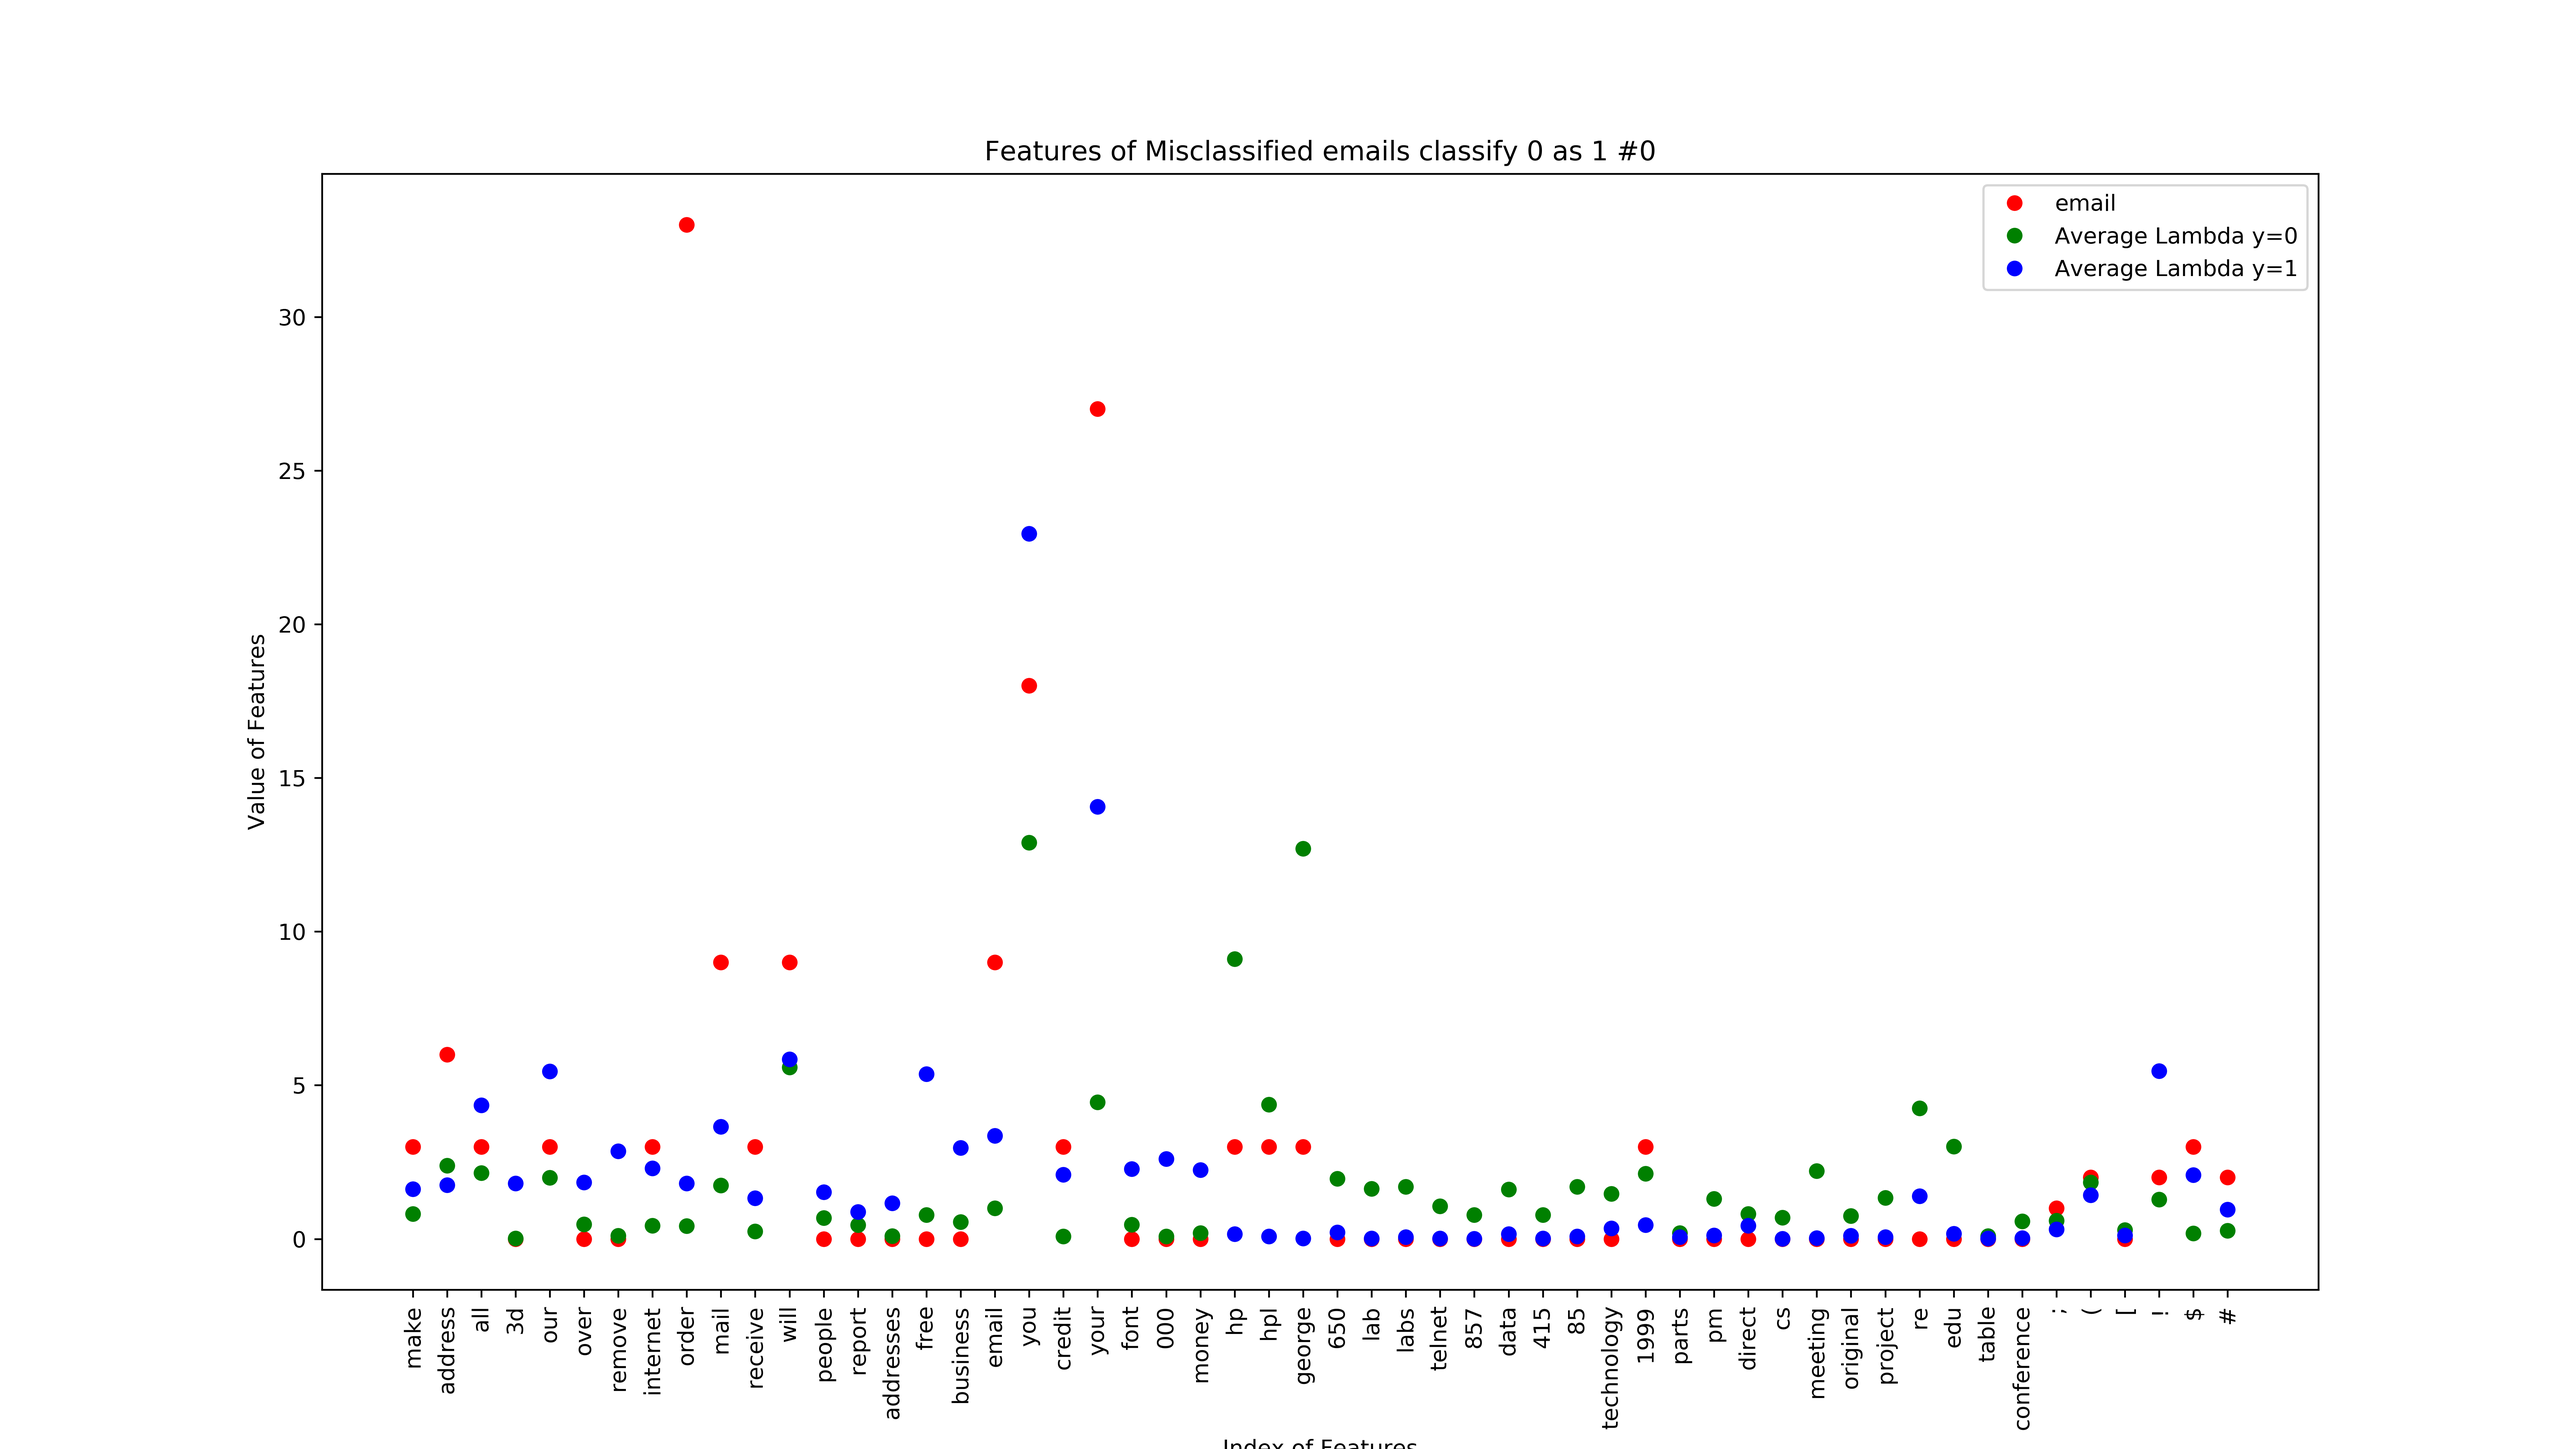
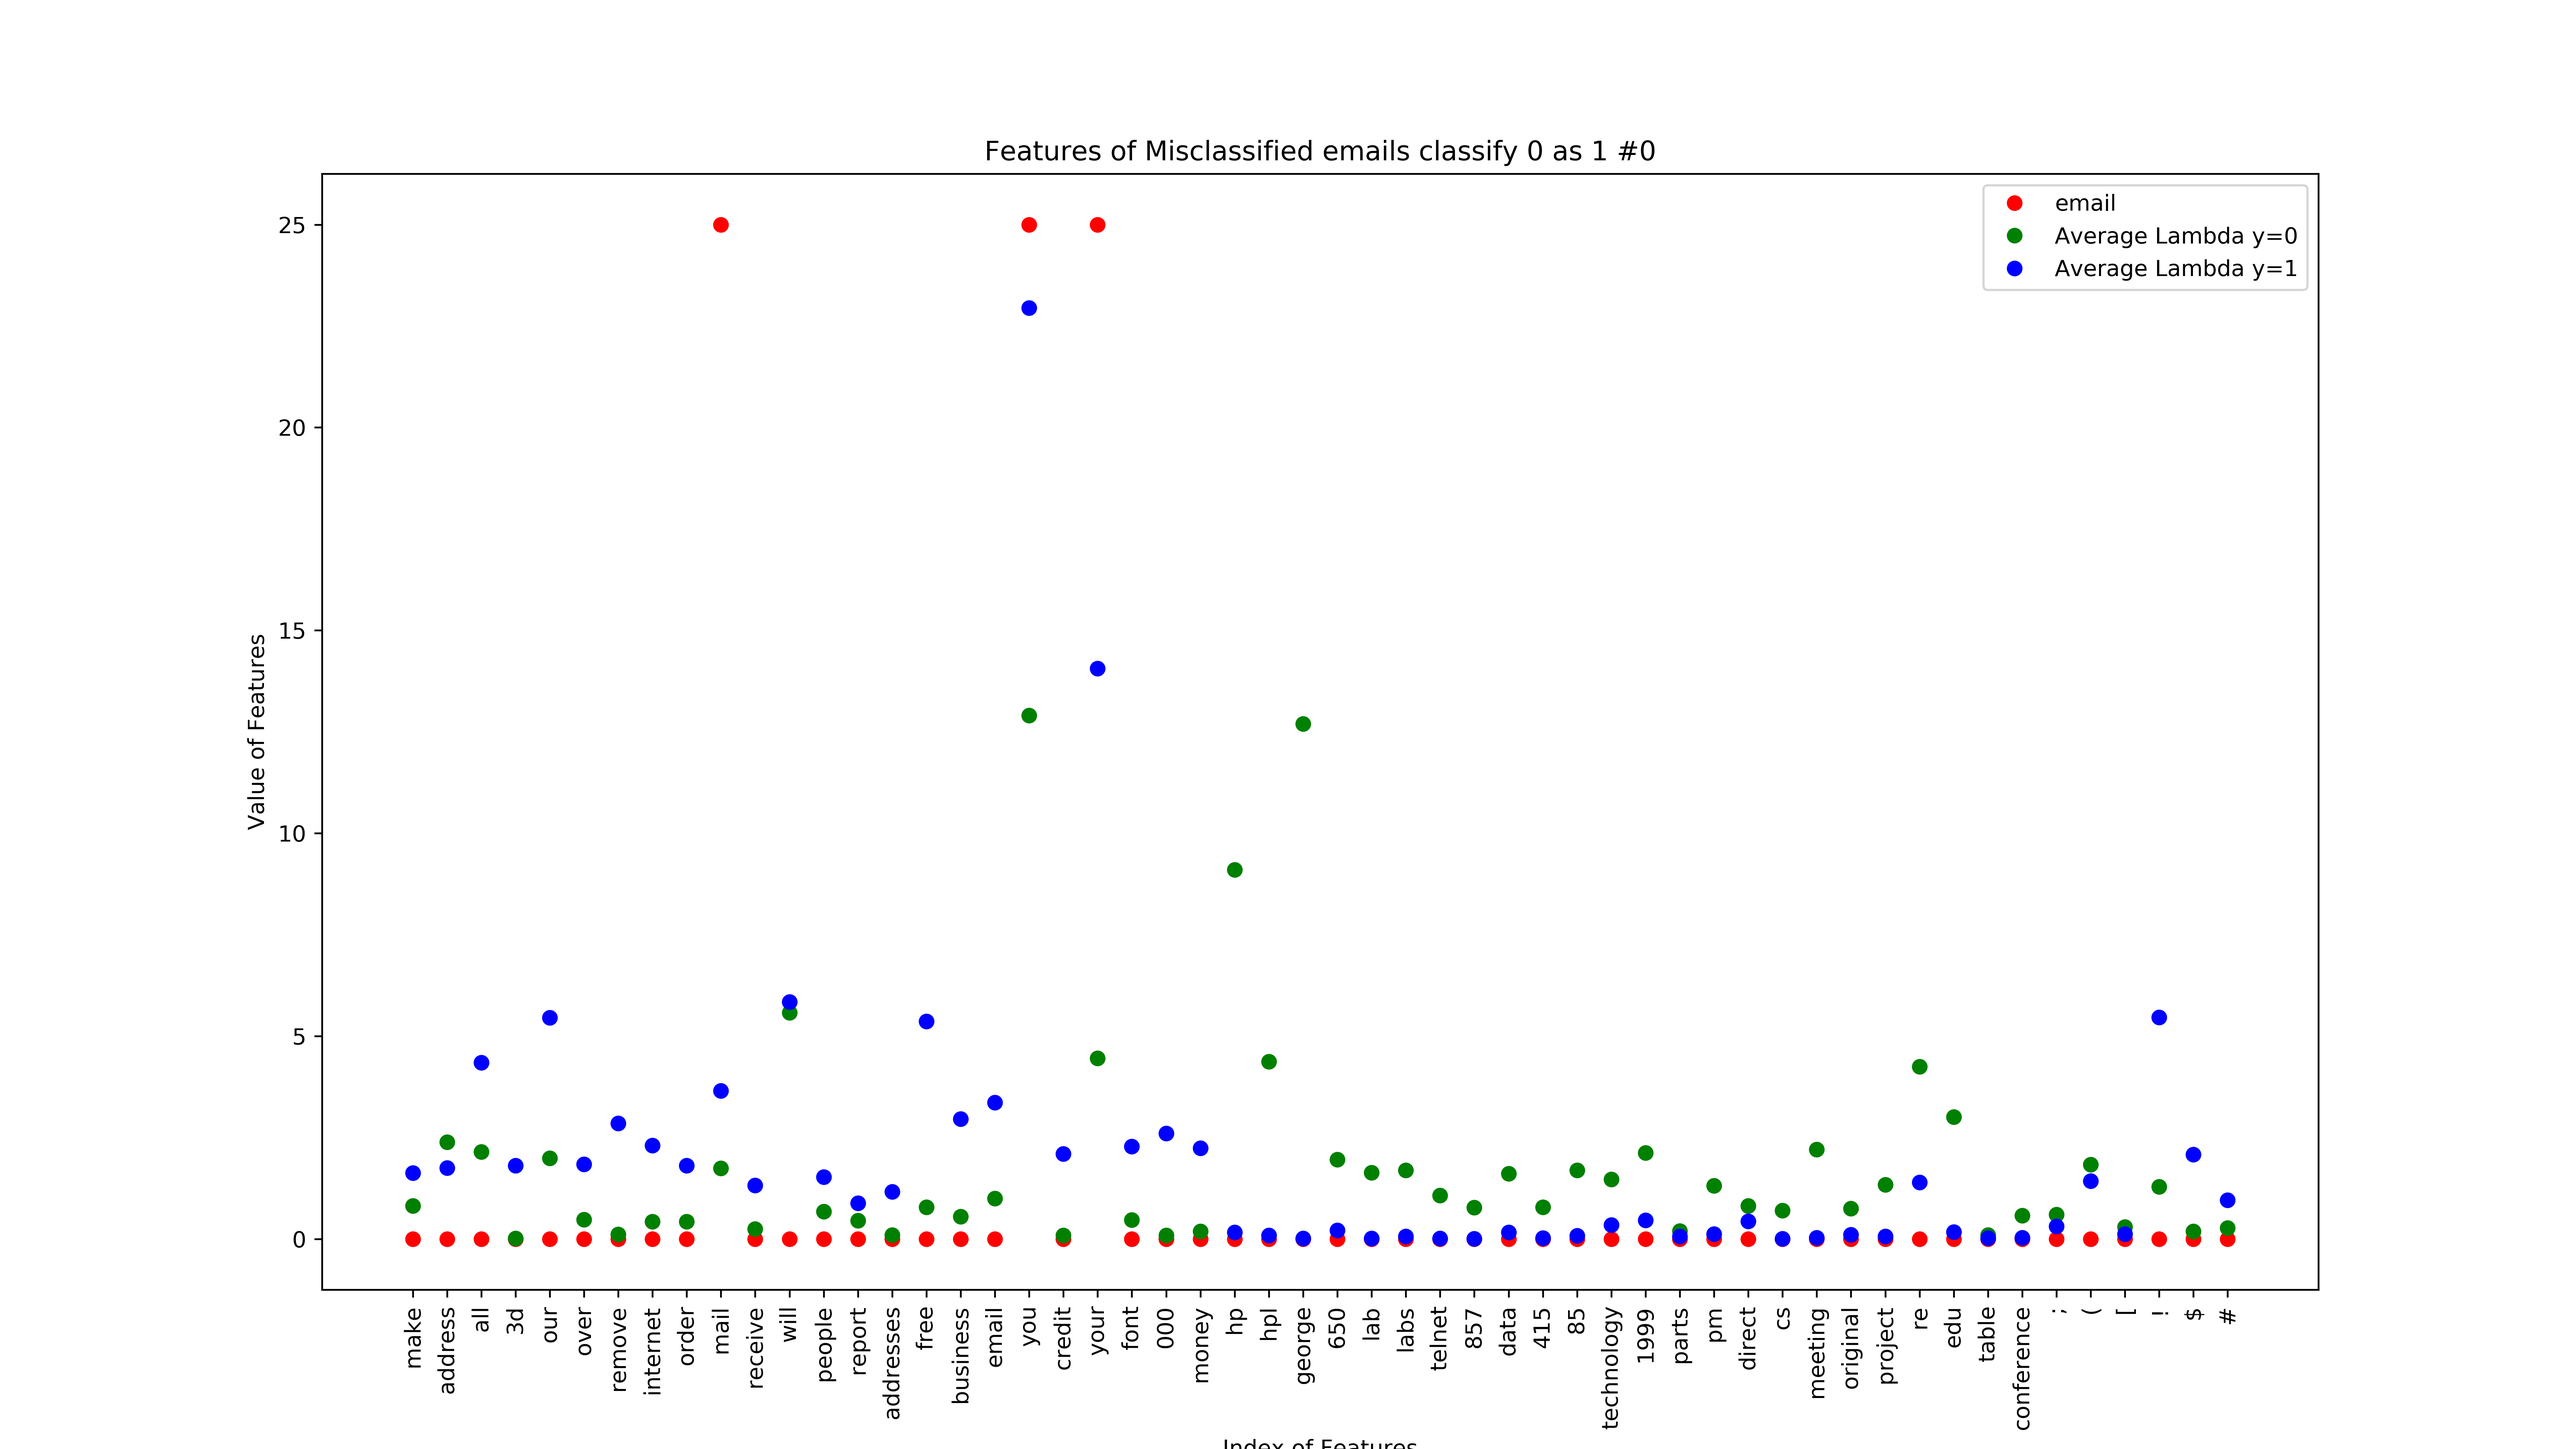
Modified

diff --git a/1/naive_bayes_spam.py b/1/naive_bayes_spam.py
@@ -42,14 +42,15 @@ class NBClassifier:
 
     # Calculate parameters based on distribution
     def cal_r(self, xs):
-        result = np.zeros(self.dim)
+        result = np.full(self.dim, self.a, dtype=np.float64)
         for i in range(self.dim):
-            result[i] = xs[i].sum()
+            result[i] += xs[i].sum()
         return result
 
     # Predict label by taking the sum of all features' log probability
-    def predict(self, px):
-        prb = np.full(self.c, 1.0).astype(np.float64)
+    def predict_one(self, px):
+        # Initialize log likelihood as 0
+        prb = np.full(self.c, 0.0).astype(np.float64)
         for i in range(self.c):
             prb[i] += np.log(self.py[i])
             for j in range(self.dim):
@@ -77,7 +78,7 @@ nbc.train(x_train, label_train)
 prob = np.zeros([num_test, 2], dtype=np.float64)
 bad_case = []
 for i, x in enumerate(x_test.values):
-    prob[i] = nbc.predict(x) # Predict test data
+    prob[i] = nbc.predict_one(x) # Predict test data
 
 
 pred = np.array([a < b for a, b in prob]).astype(int)
@@ -141,7 +142,7 @@ for i, m in enumerate(idx):
 # Calculate the real probability and pick the three most ambiguity emails.
 most_ambi = np.array([np.abs(p[0]-p[1]) for p in prob_c])
 most_ambi.sort()
-ambi_idx = [i for i, p in enumerate(prob_c) if np.abs(p[0]-p[1]) in set(most_ambi[:3])]
+ambi_idx = [i for i, p in enumerate(prob_c) if np.abs(p[0]-p[1]) in most_ambi[:3]]
 idx = ambi_idx
 print(x_test.iloc[idx], pred[idx], [[prob[i], prob_c[i]] for i in idx], label_test.iloc[idx].values)
 for i, m in enumerate(idx):
